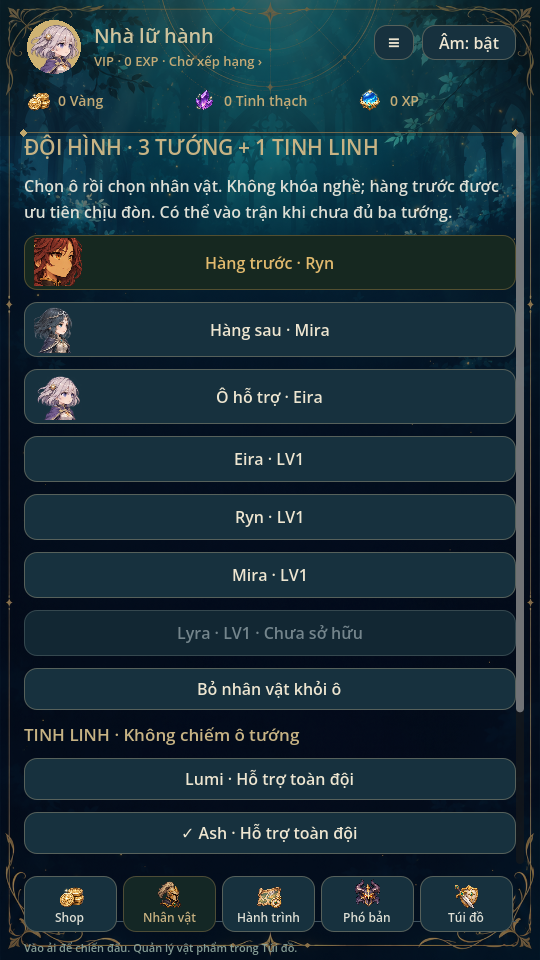
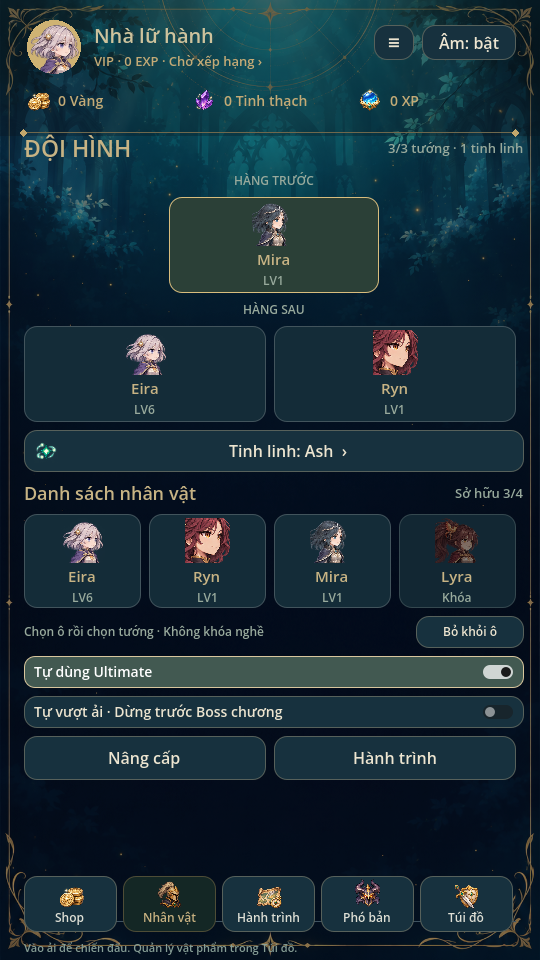
feat: apply front-and-two-back formation layout with compact roster and spirit picker

diff --git a/docs/FORMATION_SCREEN.md b/docs/FORMATION_SCREEN.md
@@ -1,0 +1,30 @@
+# Đội hình · 0.25
+
+Áp dụng sơ đồ người dùng vào giao diện xanh đen/viền vàng hiện tại:
+
+- Tiêu đề và số hero đang xếp / tinh linh.
+- Một thẻ hàng trước nằm giữa; hai thẻ hàng sau cùng hàng phía dưới.
+- Thanh tinh linh riêng, chạm để mở danh sách chọn Lumi/Ash.
+- Lưới chân dung nhân vật, LV, trạng thái khóa và số đã sở hữu.
+- Tự dùng Ultimate, Tự vượt ải và hai lối sang Nâng cấp/Hành trình.
+
+Tất cả phần điều khiển nằm trong vùng dọc hiện có trên viewport540×960 với
+roster4 người hiện tại; lưới tự xuống hàng nếu thêm hero. Thẻ dùng face từ bộ art
+đang chạy, không tạo ảnh/đổi tạo hình hoặc gán nghề từ biểu tượng trong sơ đồ.
+
+Chọn ô rồi chọn tướng: có sẵn ở ô khác thì hoán đổi, không nhân bản hero. Có
+Bỏ khỏi ô, nhưng không bỏ hero cuối cùng. Hai ô dưới chỉ đổi cách trình bày,
+vẫn là slot1/2, không đổi targeting hay khóa nghề. Tướng và tinh linh chưa sở
+hữu bị khóa. Có thể mở xem tinh linh khi pending, các nút chọn đều vô hiệu.
+
+Checkbox nối tùy chọn Formation đã có; roster/tinh linh/options cùng giữ quy
+tắc commit và khóa pending/read-only cũ. Lỗi ghi không thay RAM hoặc trừ ví.
+Không đổi schema save v8, stats, mô hình3vN hay phần thưởng. Những hero/LV trong
+ảnh là fixture minh họa Mira trước, Eira/Ryn sau; không áp đặt đội đó lên save.
+
+Kiểm thử formation_layout: vị trí ô, cùng hàng phía sau, độ cao màn, click thật
+chọn/hoán đổi, tinh linh, checkbox, nhân vật khóa, lỗi ghi và pending snapshot.
+team_ui, ui_flow, animation_gallery và regression87/mechanics72/campaign5 đạt.
+Đã xem ảnh Godot Linux; chưa thử điện thoại thật.
+
+![Đội hình mới](previews/team-formation.png)

diff --git a/AGENTS.md b/AGENTS.md
@@ -41,3 +41,5 @@
 - Tiện ích0.18: đọc docs/UTILITIES_MENU.md; chạy utilities_ui khi sửa menu/badge. Badge chỉ từ quest đủ điều kiện chưa nhận; Hộp thư/Giftcode chưa có dịch vụ, không tạo thư/quà/mã thưởng giả.
 
 - Nhiệm vụ0.20: đọc docs/MISSIONS.md; chạy missions/missions_ui và utilities_ui/player_profile khi sửa. Người dùng đã cho nhiệm vụ ngày/tuần nhận VIP EXP; mốc xếp cấp VIP chưa chốt. Record và reward/EXP/claimed cùng transaction, chu kỳ UTC chỉ tiến, bảo toàn claimed vĩnh viễn và save v6 cũ.
+
+- Đội hình0.25: đọc docs/FORMATION_SCREEN.md, chạy formation_layout/team_ui khi sửa bố cục/chọn tướng/tinh linh. Một ô trước, hai ô sau là slot0/1/2 cũ; không thay targeting/nghề/save vì hình minh họa. Khóa chỉnh sửa pending/read-only và hero chưa sở hữu.

diff --git a/README.md b/README.md
@@ -1,4 +1,10 @@
-# Aternal Senia — First Light · 0.24
+# Aternal Senia — First Light · 0.25
+
+## Bố cục Đội hình · 0.25
+
+Một ô hàng trước ở giữa, hai ô hàng sau cạnh nhau; thanh tinh linh, lưới chân
+dung hero đã sở hữu, hai công tắc AUTO và nút Nâng cấp/Hành trình. Giữ thao tác
+chọn ô rồi chọn tướng và hoán đổi. [Xem giao diện](docs/FORMATION_SCREEN.md).
 
 ## Chiến đấu 3vN · 0.24
 
